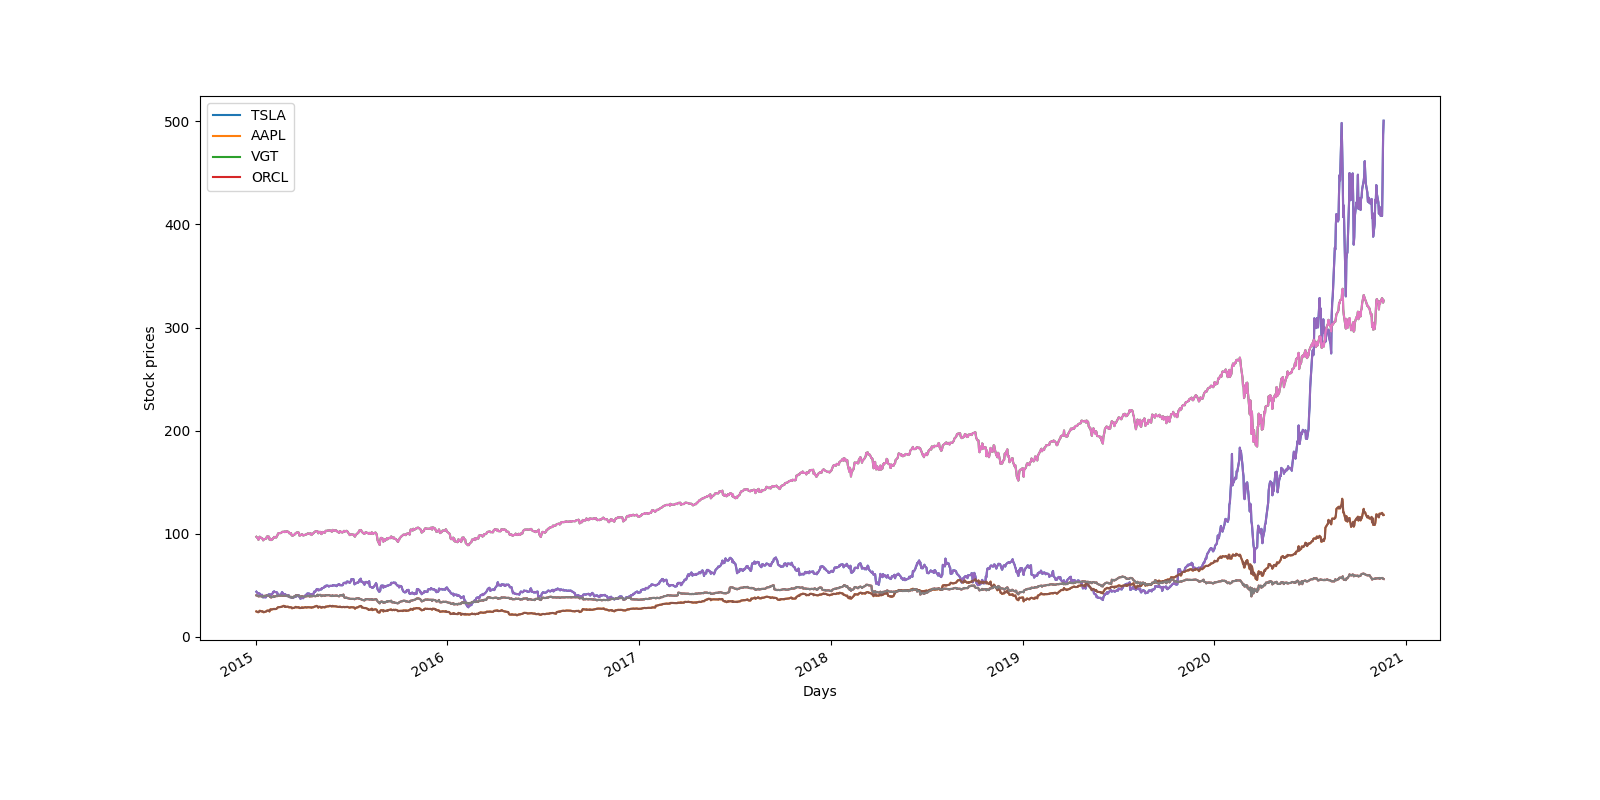
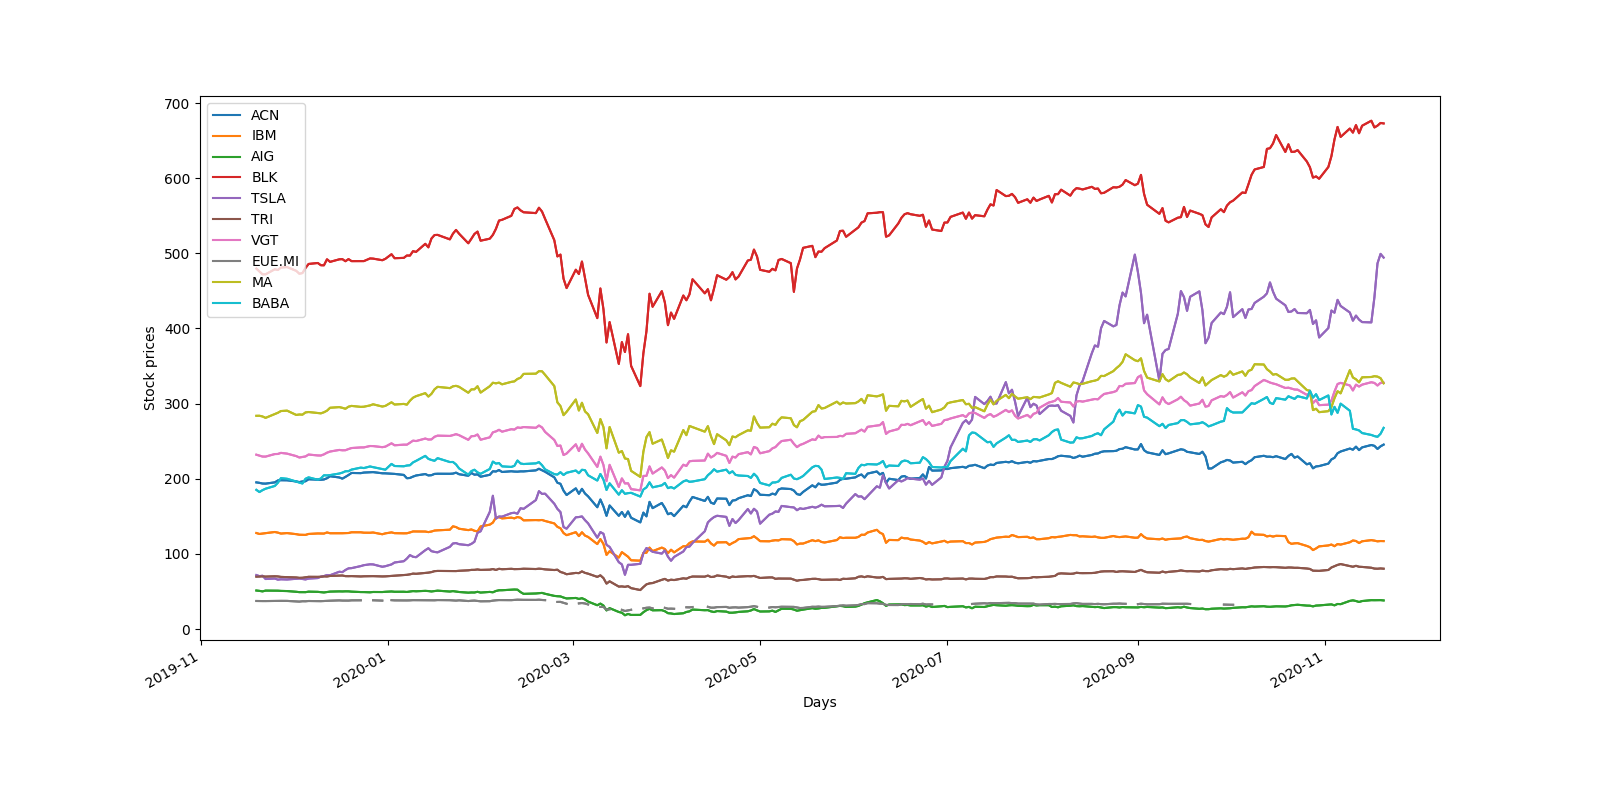
update

diff --git a/server/keyboard.py b/server/keyboard.py
@@ -6,45 +6,54 @@ from telegram import ReplyKeyboardMarkup, KeyboardButton
 
 stock = Stock()
 ##### Class in which we manage the user's keyboard
+class Keyboard:
 
-def firstKeyboard(bot, chat_id):
-    btn1 = KeyboardButton(text = 'Recap')
-    btn2 = KeyboardButton(text = 'Analysis')
-    btn3 = KeyboardButton(text = 'Forecast')
-    keyboard = [[btn1, btn2, btn3]]
-    send_keyboard(bot, keyboard, chat_id, '<strong>Menu</strong>')
-    stock.initData()
+    def __init__(self):
+        self.mess = None        
 
-def analysisKeyboard(bot, chat_id):
-    btn1 = KeyboardButton(text = 'Markowitz')
-    btn2 = KeyboardButton(text = 'CAPM')
-    keyboard = [[btn1, btn2]]
-    send_keyboard(bot, keyboard, chat_id, '<strong>Portfolio Analysis</strong>')        
+    def initData(self):
+        print('Initialize Data')
+        stock.initData()
 
-def sendRecap(bot, chat_id):
-    annual_returns, annualReturnW, volatility, tickers = stock.recapKey()
-    message = ''
-    for i in range(len(annual_returns)):
-        message += ('The single annual return of the stock ' + tickers[i] + ' is ' + \
-             str( round(annual_returns.get(i)*100, 2) ) + '%\n' )
-    send_message(bot, chat_id, message)
-    sendImage(bot, chat_id, 'stockRecap.png')
-    send_message(bot, chat_id, 'The annual return of the portfolio is: ' + str(round(annualReturnW, 3)) + '%\n' \
-        + 'The volatility of the porfolio is: ' + str( round( (volatility*100), 2) ) + '%\n')
-    
-def sendMarkowitz(bot, chat_id):
-    pfpuntoMaxRet, pfpuntoMinVol, pfpuntoAvgRet = stock.markovitz()
-    print(pfpuntoMaxRet, pfpuntoMinVol, pfpuntoAvgRet)
+    def firstKeyboard(self, bot, chat_id):
+        btn1 = KeyboardButton(text = 'Recap')
+        btn2 = KeyboardButton(text = 'Analysis')
+        btn3 = KeyboardButton(text = 'Forecast')
+        keyboard = [[btn1, btn2, btn3]]
+        self.send_keyboard(bot, keyboard, chat_id, '<strong>Menu</strong>')
+
+    def analysisKeyboard(self, bot, chat_id):
+        btn1 = KeyboardButton(text = 'Markowitz')
+        btn2 = KeyboardButton(text = 'CAPM')
+        keyboard = [[btn1, btn2]]
+        self.send_keyboard(bot, keyboard, chat_id, '<strong>Portfolio Analysis</strong>')        
+
+    def sendRecap(self, bot, chat_id):
+        annual_returns, annualReturnW, volatility, tickers = stock.recapKey()
+        message = ''
+        for i in range(len(annual_returns)):
+            message += ('The single annual return of the stock ' + tickers[i] + ' is ' + \
+                str( round(annual_returns.get(i)*100, 2) ) + '%\n' )
+        self.send_message(bot, chat_id, message)
+        self.sendImage(bot, chat_id, 'stockRecap.png')
+        self.send_message(bot, chat_id, 'The annual return of the portfolio is: ' + str(round(annualReturnW, 3)) + '%\n' \
+            + 'The volatility of the porfolio is: ' + str( round( (volatility*100), 2) ) + '%\n')
+        
+    def sendMarkowitz(self, bot, chat_id):
+        pfpuntoMaxRet, pfpuntoMinVol = stock.markovitz()
+        #print(type(pfpuntoMaxRet.get('weig_list')))
+        #print(pfpuntoMaxRet.get('weig_list'))
+        self.sendImage(bot, chat_id, 'frontier.png')
+        self.send_message(bot, chat_id, str(pfpuntoMaxRet)) 
+        self.send_message(bot, chat_id, str(pfpuntoMinVol))  
+        
+    def sendImage(self, bot, chat_id, img):
+        image = '../img/' + img
+        bot.sendPhoto(chat_id, photo=open(image, 'rb'))
 
 
+    def send_keyboard(self, bot, keyboard, chat_id, text_message):
+        bot.sendMessage(chat_id, text = text_message, parse_mode='HTML', reply_markup = ReplyKeyboardMarkup(keyboard, resize_keyboard = True))
 
-def sendImage(bot, chat_id, img):
-    image = '../img/' + img
-    bot.sendPhoto(chat_id, photo=open(image, 'rb'))
-
-
-def send_keyboard(bot, keyboard, chat_id, text_message):
-    bot.sendMessage(chat_id, text = text_message, parse_mode='HTML', reply_markup = ReplyKeyboardMarkup(keyboard, resize_keyboard = True))
-
-def send_message(bot, chat_id, text_message):
-    bot.sendMessage(chat_id, text = text_message, parse_mode='HTML')
+    def send_message(self, bot, chat_id, text_message):
+        bot.sendMessage(chat_id, text = text_message, parse_mode='HTML')

diff --git a/server/stock.py b/server/stock.py
@@ -14,8 +14,10 @@ class Stock:
 
     # Selezione dei ticker da mettere su file JSON
     def initData(self):
-        self.tickers = ['ACN', 'IBM', 'AIG', 'BLK','C','TRI','VGT','^NDX','MA']
+        self.tickers = ['ACN', 'IBM', 'AIG', 'BLK','TSLA','TRI','VGT','EUE.MI','MA', 'BABA']
         self.weights = np.array([0.1,0.1,0.1,0.1,0.1,0.1,0.1,0.1,0.1,0.1])
+        #self.tickers = ['C', 'TRI', 'VGT', 'MA']
+        #self.weights = np.array([0.25,0.25,0.25,0.25])
         self.mydata = portfolio(self.tickers)
 
     def getMydata(self):
@@ -43,6 +45,7 @@ class Stock:
         covRetLog = pfCov(self.mydata)
         corrRetLog = pfCorr(self.mydata)
         num_assets = len(self.tickers)
+        appendPfRet = returns(self.mydata).mean() * 250
 
         pf_returns= []
         pf_vol= []
@@ -50,14 +53,20 @@ class Stock:
         #generate a for loop which gives back 1000 pf weights
         #sum of these random number must be equal to 1(sum of pf assets)
         #w /= sum.(w) is equivalent to w = w / sum.(w)->w1/(w1+w2) + w2/(w1+w2..) + wn/(sum.wn)=1
-        for x in range(1000):
+        for x in range(30000):
             weights_m = np.random.random( num_assets )
             weights_m /= np.sum( weights_m )
+            #print('pesi2: ', weights_m)
             weig_list.append( weights_m )
-            pf_returns.append(np.sum( weights_m * returns(self.mydata).mean() ) * 250)
+            #print('pesi3: ', weig_list)
+            pf_returns.append(np.sum( np.dot(weights_m, appendPfRet) ) )
+            #print('pf_ret: ', pf_returns)
             pf_vol.append(np.sqrt(np.dot( weights_m.T, np.dot( covRetLog, weights_m ))))
+            #print('pf_vol: ', pf_vol)
+
 
         weig_list = [np.round(num, 4) for num in weig_list]
+        #print(weig_list)
         pf_returns = np.array(pf_returns)
         pf_vol = np.array(pf_vol)
 
@@ -67,14 +76,14 @@ class Stock:
 
         maxReturnPf = portfolios['Return'].argmax()
         minVolatilityPf = portfolios['Volatility'].argmin()
-        avgReturnPf = portfolios['Return'].argmax()//3
+        #avgReturnPf = portfolios['Return'].argmax()//3
         pfpuntoMaxRet = portfolios.iloc[maxReturnPf]
         pfpuntoMinVol  = portfolios.iloc[minVolatilityPf]
-        pfpuntoAvgRet = portfolios.iloc[avgReturnPf]
+        #pfpuntoAvgRet = portfolios.iloc[avgReturnPf]
         #plot efficient frontier 
-        stockMarkovitz(portfolios, pfpuntoMaxRet, pfpuntoMinVol, pfpuntoAvgRet)
+        stockMarkovitz(portfolios, pfpuntoMaxRet, pfpuntoMinVol)
 
-        return  pfpuntoMaxRet, pfpuntoMinVol, pfpuntoAvgRet
+        return  pfpuntoMaxRet, pfpuntoMinVol
     
     """
     def bestMarkPf(self, portfolios):

diff --git a/server/main.py b/server/main.py
@@ -2,7 +2,7 @@ import sys, time
 import telegram
 from telegram import ReplyKeyboardMarkup, KeyboardButton, InputFile
 
-from keyboard import *
+from keyboard import Keyboard
 from message import Message
 
 handler = Message()
@@ -11,6 +11,7 @@ TOKEN = token.read()
 bot = telegram.Bot(TOKEN)
 f = open("../config/welcome.txt", "r")
 welcome = f.read()
+key = Keyboard()
 
 # Push into que last update recived from user
 def last_update():
@@ -21,29 +22,29 @@ def last_update():
 def main():
     #update_id = last_update() + 1
     try:
+        key.initData()
+        print('You can start to use your bot')
         last_update()
         update_id = handler.getUpdateId() + 1
         while True:
             update = handler.getUpdateId()
             if  update == update_id:
                 if handler.getMessage() == '/start':
-                    send_message(bot, handler.getChatId(), welcome)
-                    firstKeyboard(bot, handler.getChatId())
+                    key.send_message(bot, handler.getChatId(), welcome)
+                    key.firstKeyboard(bot, handler.getChatId())
                 elif handler.getMessage() == '/back':
-                    firstKeyboard(bot, handler.getChatId())  
+                    key.firstKeyboard(bot, handler.getChatId())  
                 elif handler.getMessage() == 'Analysis':
-                    analysisKeyboard(bot, handler.getChatId())   
+                    key.analysisKeyboard(bot, handler.getChatId())   
                 elif handler.getMessage() == 'Recap':
-                    sendImage(bot, handler.getChatId(), 'recap.png')
-                    sendRecap(bot, handler.getChatId())
+                    key.sendImage(bot, handler.getChatId(), 'recap.png')
+                    key.sendRecap(bot, handler.getChatId())
                 elif handler.getMessage() == 'Markowitz':
-                    sendImage(bot, handler.getChatId(), 'frontier.png')
-                    sendMarkowitz(bot, handler.getChatId())   
+                    key.sendMarkowitz(bot, handler.getChatId())   
                 else:
-                    send_message(bot, handler.getChatId(), "Sorry, this function is not available yet!")
+                    key.send_message(bot, handler.getChatId(), "Sorry, this function is not available yet!")
                 update_id += 1
                 handler.move()
-            time.sleep(0.2)
             last_update()
     except KeyboardInterrupt:
         pass

diff --git a/server/Stock_Functions.py b/server/Stock_Functions.py
@@ -2,12 +2,14 @@ from pandas_datareader import data as wb
 import pandas as pd
 import numpy as np
 from matplotlib import pyplot as plt
+import time
 
 # Select data from database
 def portfolio(tickers):
+    print('Downloading data....')
     mydata = pd.DataFrame()
     for t in tickers:
-        mydata[t]= wb.DataReader(t,data_source='yahoo', start='2015-1-1')['Adj Close']
+        mydata[t]= wb.DataReader(t,data_source='yahoo', start='2019-11-19')['Adj Close']
     return mydata    
     
 #calculate a portfolio annual return
@@ -23,7 +25,7 @@ def returns(mydata):
     
 # Ritorna portfolio pesato
 def weigthedReturn(annual_returns, weights):
-    return round(np.dot(annual_returns, weights),4)*100
+    return round(np.dot(annual_returns, weights), 4)*100
     
 # Ritorna il rischio del portafoglio    
 def pfRisk(annual_returns, tickers):
@@ -46,6 +48,7 @@ def recap(x, y):
     plt.ylabel('Equity Line')
     plt.xlabel('Days')
     plt.savefig('../img/recap.png')
+    time.sleep(0.1)
 
 def stockRecap(mydata):
     mydata.plot(figsize=(16,8))
@@ -53,12 +56,13 @@ def stockRecap(mydata):
     plt.ylabel('Stock prices')
     plt.xlabel('Days')
     plt.savefig('../img/stockRecap.png')
+    time.sleep(0.1)
 
-def stockMarkovitz(portfolios, pfpuntoMaxRet, pfpuntoMinVol, pfpuntoAvgRet):
+def stockMarkovitz(portfolios, pfpuntoMaxRet, pfpuntoMinVol):
     portfolios.plot( x = 'Volatility', y = 'Return', kind = 'scatter', figsize = (10,6) )
     plt.scatter( x = pfpuntoMaxRet['Volatility'], y = pfpuntoMaxRet['Return'], c = 'r')
     plt.scatter( x = pfpuntoMinVol['Volatility'], y = pfpuntoMinVol['Return'], c = 'r')
-    plt.scatter( x = pfpuntoAvgRet['Volatility'], y = pfpuntoAvgRet['Return'], c = 'r')
+    #plt.scatter( x = pfpuntoAvgRet['Volatility'], y = pfpuntoAvgRet['Return'], c = 'r')
     plt.savefig('../img/frontier.png')
 
 

diff --git a/server/MC_Simulation.py b/server/MC_Simulation.py
@@ -28,10 +28,12 @@ from Stock_Functions import *
 
 
 #Import data
-ticker = ['TSLA', 'AAPL', 'VGT', 'AMZN']
+ticker = ['ACN', 'IBM', 'AIG', 'BLK','TSLA','TRI','VGT','EUE.MI','MA', 'BABA']
 mydata = pd.DataFrame()
-mydata[ticker] = wb.DataReader(ticker, data_source = "yahoo", start = "2015-1-1")["Adj Close"]
+#mydata[ticker] = wb.DataReader(ticker, data_source = "yahoo", start = "2020-11-19")["Adj Close"]
 
+for t in ticker:
+    mydata[t]= wb.DataReader(t,data_source='yahoo', start='2019-11-19')['Adj Close']
 
 
 daily = (mydata/ mydata.shift(1)).mean(axis = 1) - 1

diff --git a/server/capm.py b/server/capm.py
@@ -9,10 +9,10 @@ from yahoofinancials import YahooFinancials
 
 
 # Create a list of tickers and weights
-tickers = ['ACN', 'IBM', 'AIG', 'BLK','C','TRI','VGT','^GSPC','MA']
+tickers = ['ACN', 'IBM', 'AIG', 'BLK','C','TRI','VGT','QQQJ','MA']
 mydata = pd.DataFrame()
 for t in tickers:
-    mydata[t]= wb.DataReader(t,data_source='yahoo', start='2015-1-1')['Adj Close']
+    mydata[t]= wb.DataReader(t,data_source='yahoo', start='2019-1-1')['Adj Close']
     
 const_weights = [0.1,0.1,0.1,0.1,0.1,0.1,0.1,0.1,0.1,0.1]
 
